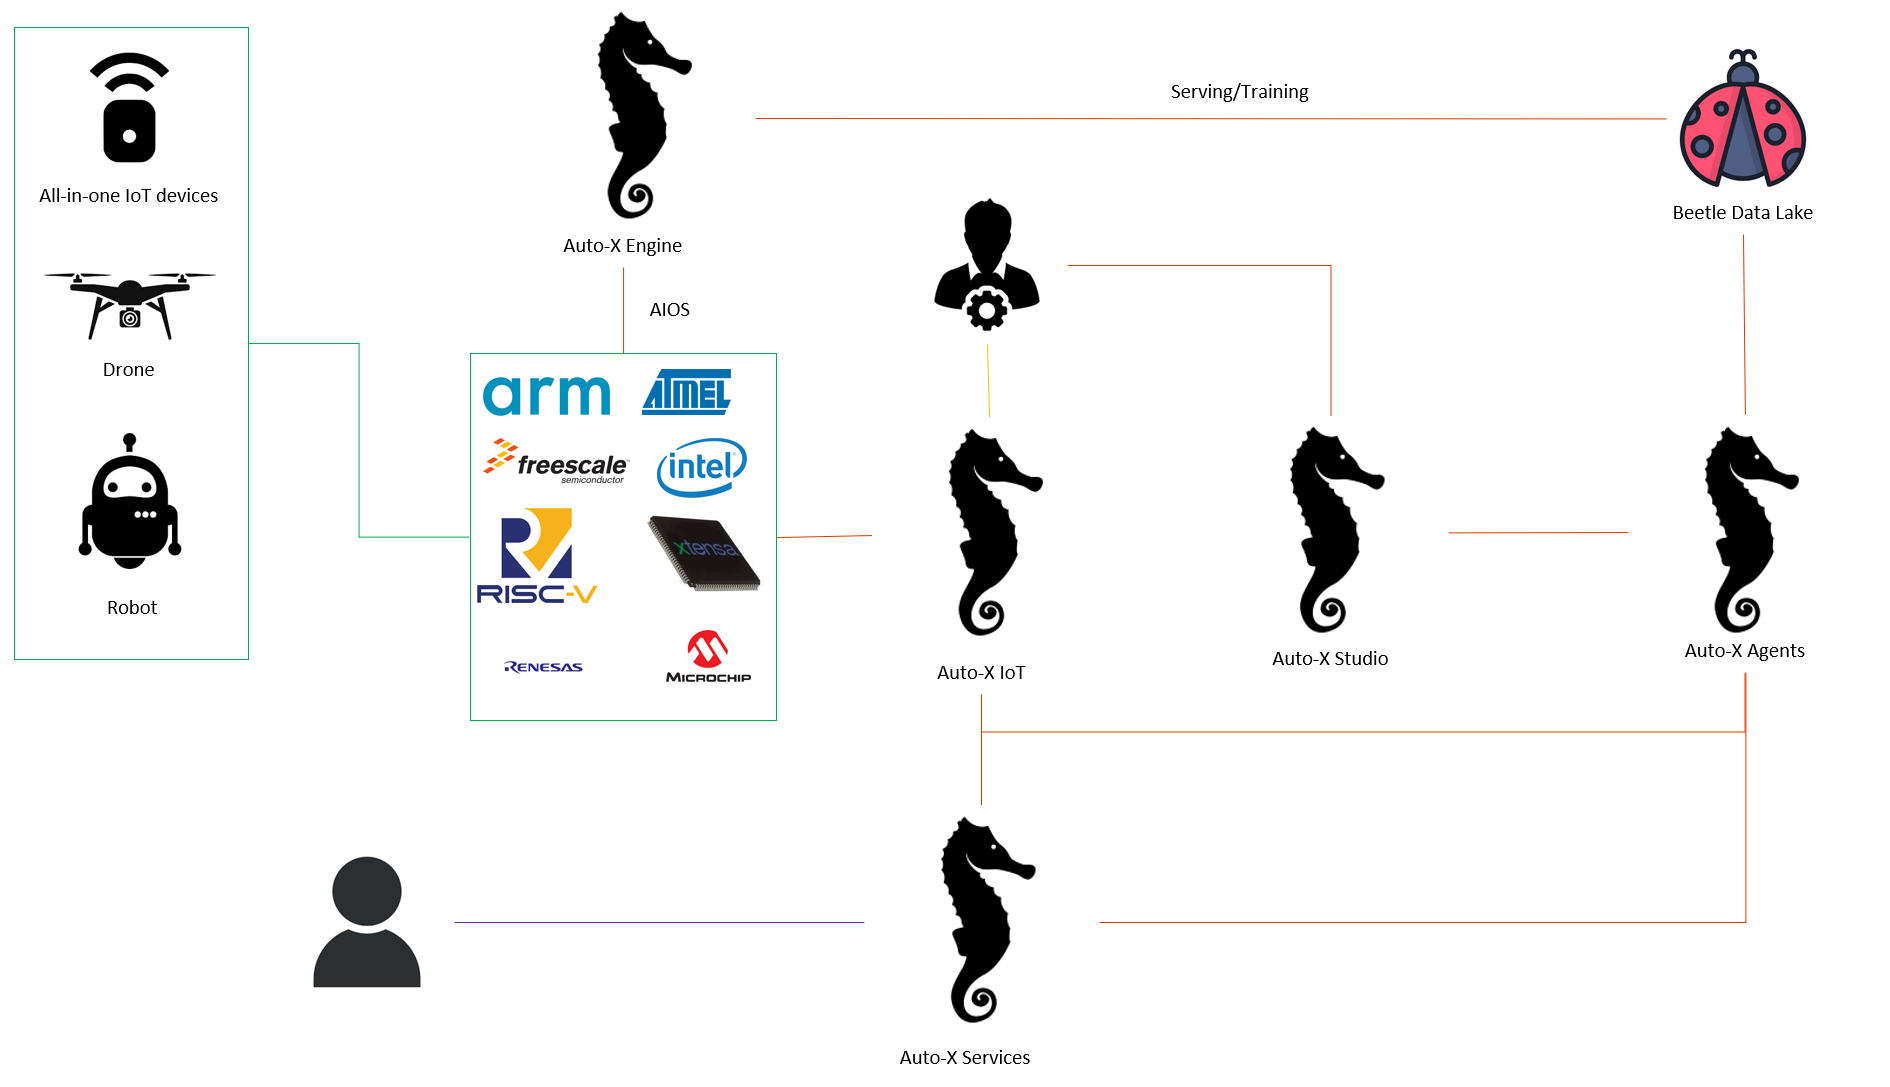
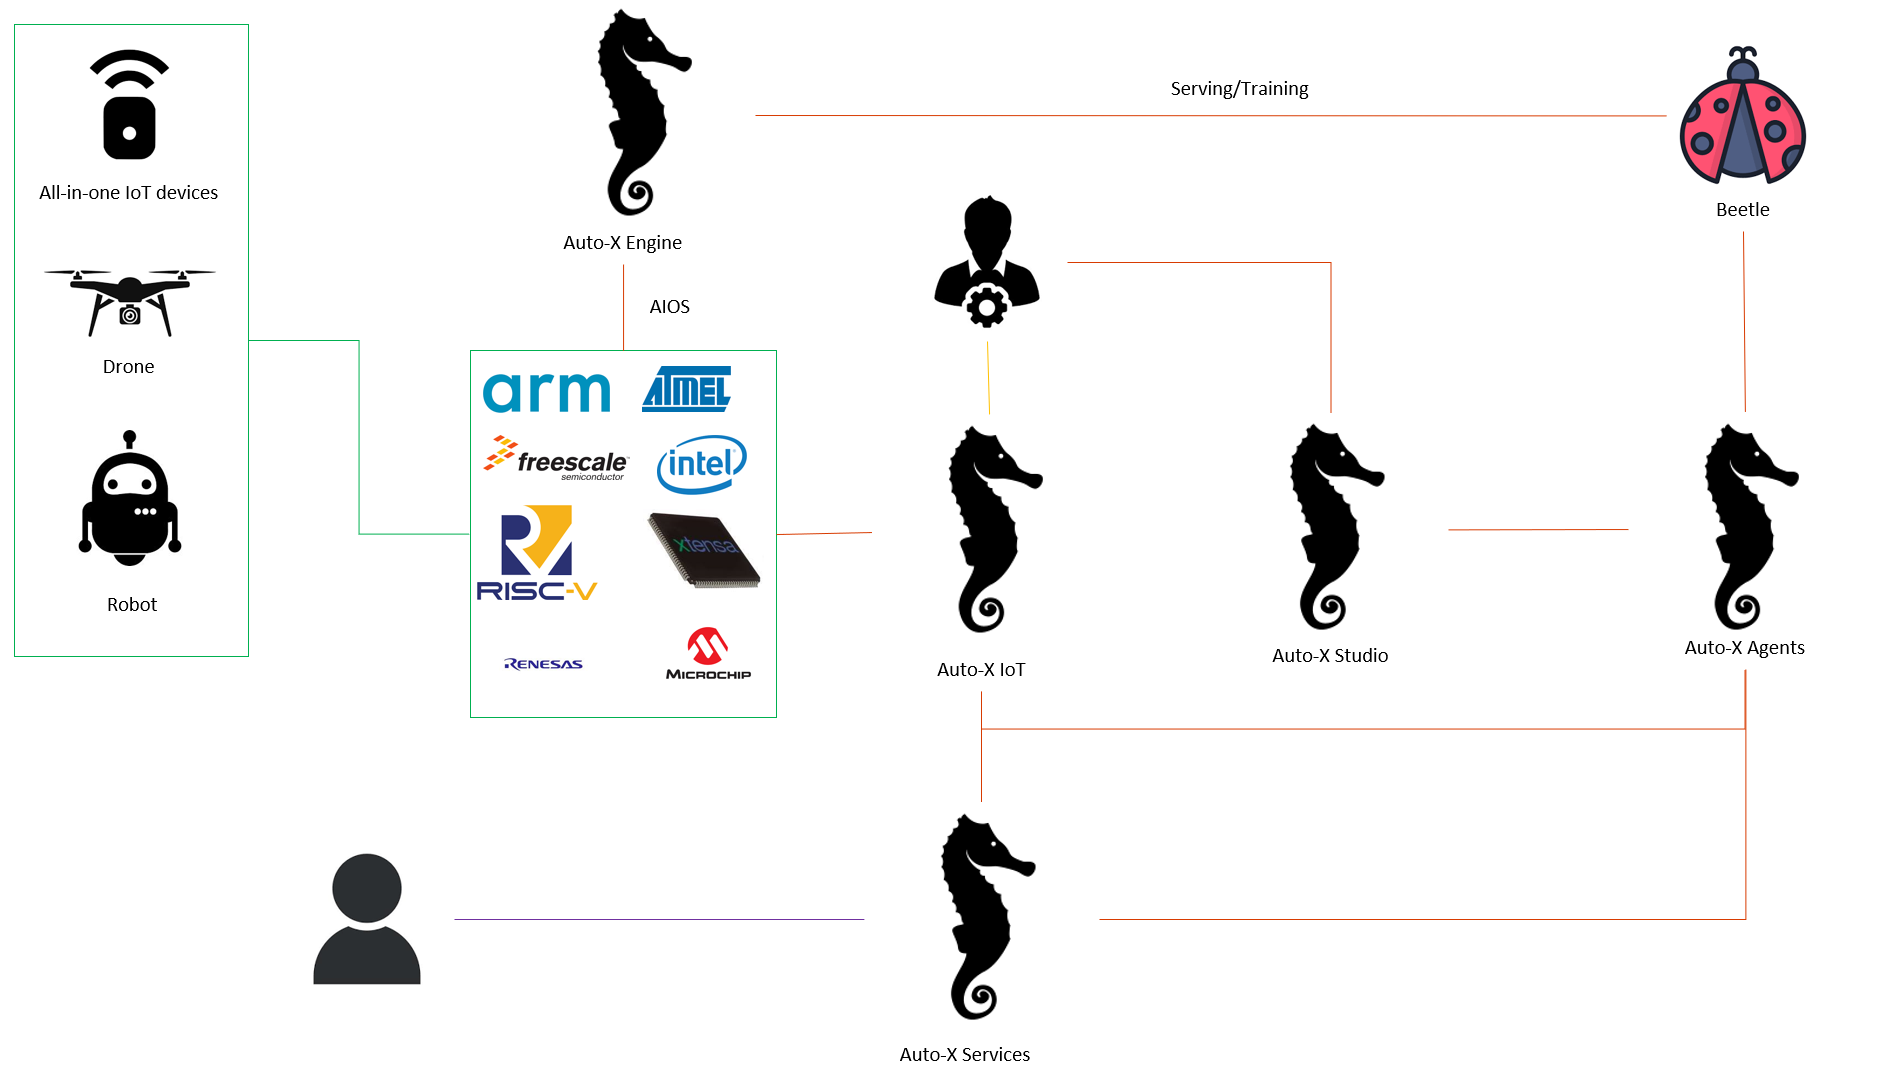
Update README

diff --git a/README.md b/README.md
@@ -22,7 +22,7 @@ Auto-X for Industries is an autonomous solution that aims to solve the following
 
 - Auto-X Studio (this repo)
 - Auto-X Agents (this repo)
-- [Beetle Datalake](https://github.com/HairongWu/Beetle) (powered by [PROON株式会社](https://www.proon.co.jp/))
+- [Beetle](https://github.com/HairongWu/Beetle) (powered by [PROON株式会社](https://www.proon.co.jp/))
 - [Auto-X Engine](https://github.com/HairongWu/Auto-X-Engine) (based on Triton/MNN/NuttX)
 - [Auto-X IoT](https://github.com/HairongWu/Auto-X-IoT) (based on OpenRemote)
 - [Service Plans](https://github.com/HairongWu/Auto-X-Services)
